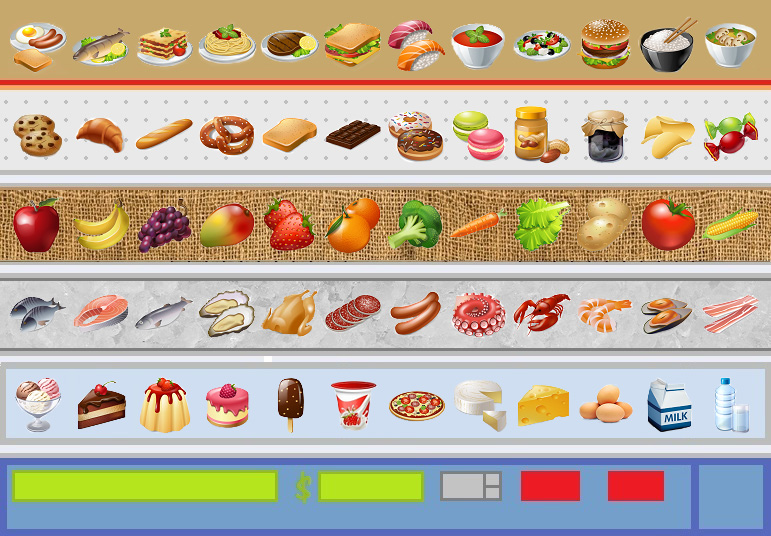
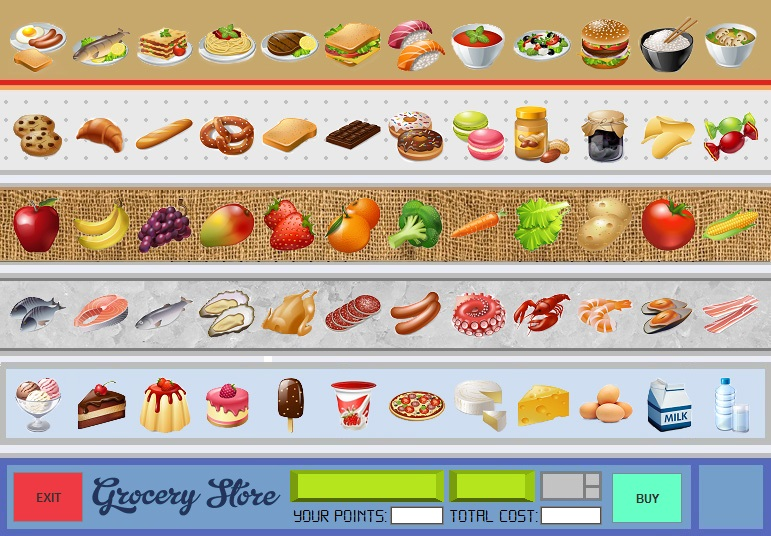
BEAUTIFUL GROCERY STORE FINISHED~

diff --git a/Code/src/GroceryStore.java b/Code/src/GroceryStore.java
@@ -5,6 +5,7 @@ import java.io.*;
 import javax.imageio.ImageIO;
 import java.awt.image.BufferedImage;
 import java.awt.Component;
+import javax.swing.event.*;
 /**
  * The GroceryStore class is the class that has the grocery store and has different foods for the user to buy
  * and feed their critter.
@@ -27,27 +28,29 @@ import java.awt.Component;
  * <b>itemName</b> Creates an instance of the JLabel class with the String title "Item Name" to display the selected item's name.
  * <p>
  * <b>itemPrice</b> Creates an instance of the JLabel class with the String title "Price" to display the selected item's price.
- * <b>
- * <p>buyIt</b> Creates an instance of the JButton class with the String title "BUY".
- * <b>
- * <p>exit</b> Creates an instance of the JButton class with the String title "EXIT".
- * <b>
- * <p>spinnerModel</b> A Spinner Model that creates an instance of the SpinneNumberModel class with a minimum of 1, incrementation of 1 and maximum of 10.
- * <b>
- * <p>spinner</b> Creates an instance of the JSpinner class using the spinnerModel to let the user select the quantity of an item.
+ * <p>
+ * <b>buyIt</b> Creates an instance of the JButton class with the String title "BUY".
+ * <p>
+ * <b>exit</b> Creates an instance of the JButton class with the String title "EXIT".
+ * <p>
+ * <b>spinnerModel</b> A Spinner Model that creates an instance of the SpinneNumberModel class with a minimum of 1, incrementation of 1 and maximum of 10.
+ * <p>
+ * <b>spinner</b> Creates an instance of the JSpinner class using the spinnerModel to let the user select the quantity of an item.
  */
 public class GroceryStore extends JPanel implements MouseListener
 {
-  
   Food[][] foodItem=new Food[5][12];
-  Food blank=new Food ("Item Name", "Price","shoppingBasket.png");
+  Food blank=new Food ("Item Name", "0","shoppingBasket.png");
   Food selectedItem=blank;
   JLabel itemName=new JLabel("Item Name");
-  JLabel itemPrice=new JLabel("0");
+  JLabel itemPrice=new JLabel("$0");
+  JLabel numPoints=new JLabel (""+CritterSitterApp.home.getPoints());
+  JLabel totalPrice=new JLabel ("$0");
   JButton buyIt=new JButton("BUY");
-  JButton exit=new JButton ("EXIT");
   SpinnerModel spinnerModel = new SpinnerNumberModel(1,1,10,1);
   JSpinner spinner = new JSpinner(spinnerModel);
+  int confirmPurchaseDialog;
+  int quantity=1;
   
   /**
    * The GroceryStore constructor adds a MouseListener to the JPanel, sets the Layout to null, sets the location of all the two JButtons, two JLabels and JSpinner. 
@@ -59,38 +62,49 @@ public class GroceryStore extends JPanel implements MouseListener
     addMouseListener(this);
     setLayout(null);
     
-    itemName.setBounds(20,435,100,100);
-    itemPrice.setBounds(400,435,100,100);
+    itemName.setBounds(300,436,300,100);
+    itemPrice.setBounds(459,436,100,100);
+    totalPrice.setBounds(544,465,100,100);
+    numPoints.setBounds(394,465,100,100);
     
-    buyIt.setBounds(520,470,70,50);
+    buyIt.setBounds(612,473,70,50);
     buyIt.setBackground(new Color(102,255,198));
+    buyIt.setEnabled(false);
     buyIt.addActionListener (new ActionListener ()
                                {
       public void actionPerformed (ActionEvent e)
       {
-        itemName.setText("Bought it");
+        if (quantity<=CritterSitterApp.home.getFridgeSpace()&&calcTotal()<=CritterSitterApp.home.getPoints())
+        {
+          confirmPurchase();
+          if (confirmPurchaseDialog==0)
+          {
+            CritterSitterApp.home.addFood(selectedItem,quantity);
+          }
+        }
+        else
+          errorMessage();
       }
     }
     );
     
-    exit.setBounds(600,470,70,50);
-    exit.setBackground(new Color(239,58,68));
-    exit.addActionListener (new ActionListener ()
-                              {
-      public void actionPerformed (ActionEvent e)
+    spinner.setBounds(542,474,58,24);
+    spinner.addChangeListener(new ChangeListener() 
+                                {
+      public void stateChanged(ChangeEvent e) 
       {
-        itemName.setText("exit");
+        quantity=(int)spinner.getValue();
+        totalPrice.setText("$"+calcTotal());
       }
-    }
-    );
+    });
     
-    spinner.setBounds(442,473,58,24);
-    
-    add(spinner);
     add(itemName);
     add(itemPrice);
+    add(totalPrice);
+    add(numPoints);
     add(buyIt);
-    add(exit);
+    add(spinner);
+    
     stockStore();
   }
   
@@ -118,8 +132,6 @@ public class GroceryStore extends JPanel implements MouseListener
    * <b> x </b> An int loop variable that starts from 0 and increments by 1 while x is smaller than 5 for as the row number in the 2D array foodItems.
    * <p>
    * <b> y </b> An int loop variable that starts from 0 and increments by 1 while y is smaller than 12 for as the column number in the 2D array foodItems.
-   * 
-   * @exception IOException if stream to foods.txt cannot be written to or closed.
    */
   public void stockStore()
   {
@@ -148,45 +160,49 @@ public class GroceryStore extends JPanel implements MouseListener
   }
   
   /**
-   * The displaySelectedItem method displays the name and price of the food the user has chosen by setting text to the itemName and itemPrice JLabels.
+   * The confirmPurchase method creates and displays a JOptionPane to ask the user to confirm their purchase
+   * <p>
+   * <b>Local Variable Dictionary: </b>
+   * <p>
+   * <b> options[] </b> Object of the options of the confirmPurchaseDialog.
+   * <p>
+   * <b> confirmPurchaseDialog </b> The JOptionPane OptionDialog to ask the user to confirm their purchase.
    */
-  public void displaySelectedItem ()
+  public void confirmPurchase()
   {
-    itemName.setText(selectedItem.getName());
-    itemPrice.setText(selectedItem.getPrice());
-    //itemPrice.setText(spinner.getValue()+"");
+    Object[] options = {"Confirm Purchase","Cancel"};
+    confirmPurchaseDialog = JOptionPane.showOptionDialog(this, "Are you sure of your purchase?\n"+selectedItem.getName()
+                                                           +".........."+spinner.getValue()+"\n"+"Points to Spend.........."+calcTotal(),                                   
+                                                         "Confirm Purchase",
+                                                         JOptionPane.YES_NO_OPTION,
+                                                         JOptionPane.QUESTION_MESSAGE,
+                                                         new ImageIcon(selectedItem.getIcon()),    
+                                                         options, 
+                                                         options[0]);
   }
   
-  /**
-   * The checkOut method is used to add the food the user has chosen to their fridge and decrement the points the CritterSitter has.
-   */
-  public void checkOut ()
+  public void errorMessage()
   {
-    /*decrement CritterSitter points and add food to fridge*/
-  }
-  
-  /**
-   * The exit method is used to exit the grocery store.
-   */
-  public void exit ()
-  {
+    String message="";
+    if (quantity>CritterSitterApp.home.getFridgeSpace())
+    {
+      message="You do not have enough space in your fridge.\n";
+    }
+    if(calcTotal()>CritterSitterApp.home.getPoints())
+    {
+      message+="You do not have enough points.";
+    }
+    JOptionPane.showMessageDialog(this, message);
   }
   
   /**
    * The calcTotal method is used to calculate the total number of points the user needs to pay for each purchase of one type of item.
    * 
-   * <p>
-   * <b>Local Variables: </b>
-   * <p>
-   * <b>total </b> int that stores how much the user needs to pay for each purchase of one type of item.
-   * 
    * @returns int of the total number of points the user needs to pay for each purchase of one type of item.
    */
   private int calcTotal ()
   {
-    int total = 0;
-    /*with quantity*/
-    return total;
+    return Integer.parseInt(selectedItem.getPrice())*quantity;
   } 
   
   /**
@@ -204,7 +220,6 @@ public class GroceryStore extends JPanel implements MouseListener
     return false;
   }
   
-  
   /**
    * The correctCol method is used to determine whether the user clicked in the column specified in the parameters or not.
    * The if statement checks if the user clicked within the 60 by 60 square of a food icon starting from the indicated left most pixel.
@@ -213,13 +228,12 @@ public class GroceryStore extends JPanel implements MouseListener
    * @param clickX int of the x coordinate of the user's mouse click.
    * @param iconX int of an icon's left most x coordinate.
    */
-  private boolean correctCol(int clickX, int iconX)
+  public static boolean correctCol(int clickX, int iconX)
   {
     if (clickX>=iconX&&clickX<=iconX+60)
       return true;
     return false;
   }
-  
   
   /**
    * The mouseClicked method coordinates the proper response to the user's mouse clicks. 
@@ -251,6 +265,8 @@ public class GroceryStore extends JPanel implements MouseListener
           if (correctCol(e.getX(),col+8))
           {
             selectedItem=foodItem[row/90][col/63];
+            totalPrice.setText("$"+calcTotal());
+            buyIt.setEnabled(true);
             break;
           }
         }
@@ -259,38 +275,44 @@ public class GroceryStore extends JPanel implements MouseListener
       else
       {
         selectedItem=blank;
+        buyIt.setEnabled(false);
+        totalPrice.setText("");
       }
     }
     repaint();
-    displaySelectedItem();
+    itemName.setText(selectedItem.getName());
+    itemPrice.setText("$"+selectedItem.getPrice());
   }
+  
   /**
    * The mousePressed method listens for a mouse press.
    * @param e MouseEvent that stores the user's mouse actions.
-  */
+   */
   @Override
   public void mousePressed(MouseEvent e) {}
   
   /**
    * The mouseEntered method listens for a mouse enter.
    * @param e MouseEvent that stores the user's mouse actions.
-  */
+   */
   @Override
   public void mouseEntered(MouseEvent e) {}
   
   /**
    * The mouseExited method listens for a mouse exit.
    * @param e MouseEvent that stores the user's mouse actions.
-  */
+   */
   @Override
   public void mouseExited(MouseEvent e) {}
   
   /**
    * The mouseReleased method listens for a mouse release.
    * @param e MouseEvent that stores the user's mouse actions.
-  */
+   */
   @Override
-  public void mouseReleased(MouseEvent e) {}
+  public void mouseReleased(MouseEvent e) 
+  {
+  }
   
   /**
    * Overrided paintComponent method of the Graphics class to draw background and food icons on to the JPanel. The pictures include the store's background and the food icons.
@@ -299,8 +321,6 @@ public class GroceryStore extends JPanel implements MouseListener
    * <b>Local Variable Dictionary: </b>
    * <p>
    * <b> bg </b> An Image the creates an instance of the ImageIcon class that stores the store's background image.
-   * <p>
-   * <b> foodIcon </b> An Image the creates an instance of the ImageIcon class that stores the selectedItem's corresponding food icon.
    * 
    * @param g An instance of the Graphics class.
    */
@@ -309,7 +329,6 @@ public class GroceryStore extends JPanel implements MouseListener
   {
     Image bg = new ImageIcon ("GroceryStoreBG.jpg").getImage();
     g.drawImage(bg, 0, 0,this);
-    Image foodIcon = new ImageIcon (selectedItem.getIcon()).getImage();
-    g.drawImage(foodIcon, 701, 467,this);
+    g.drawImage(new ImageIcon(selectedItem.getIcon()).getImage(), 701, 467,this);
   } 
 }

diff --git a/Code/src/Food.java b/Code/src/Food.java
@@ -44,7 +44,7 @@ public class Food
   }
   
   /**
-   * The Food constructor makes the new food object with the designated name, price and image.
+   * The Food constructor makes the new Food object with the designated name, price and image.
    * 
    * @param name This is a String variable for the food's name.
    * @param price This is an String variable for the price of the food.
@@ -55,6 +55,13 @@ public class Food
     this.name = name;
     this.price = price;
     this.icon = icon; 
+  }
+  
+  /**
+   * The Food constructor makes the new Food object.
+   */
+  public Food()
+  {
   }
   
   /**
